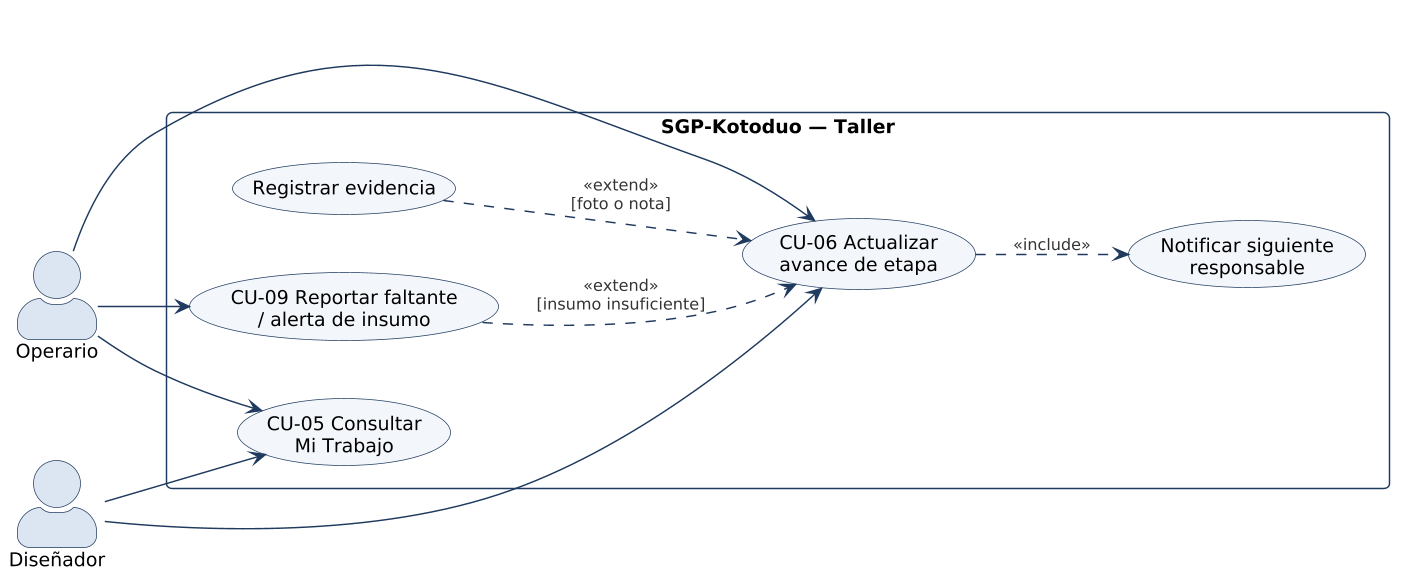
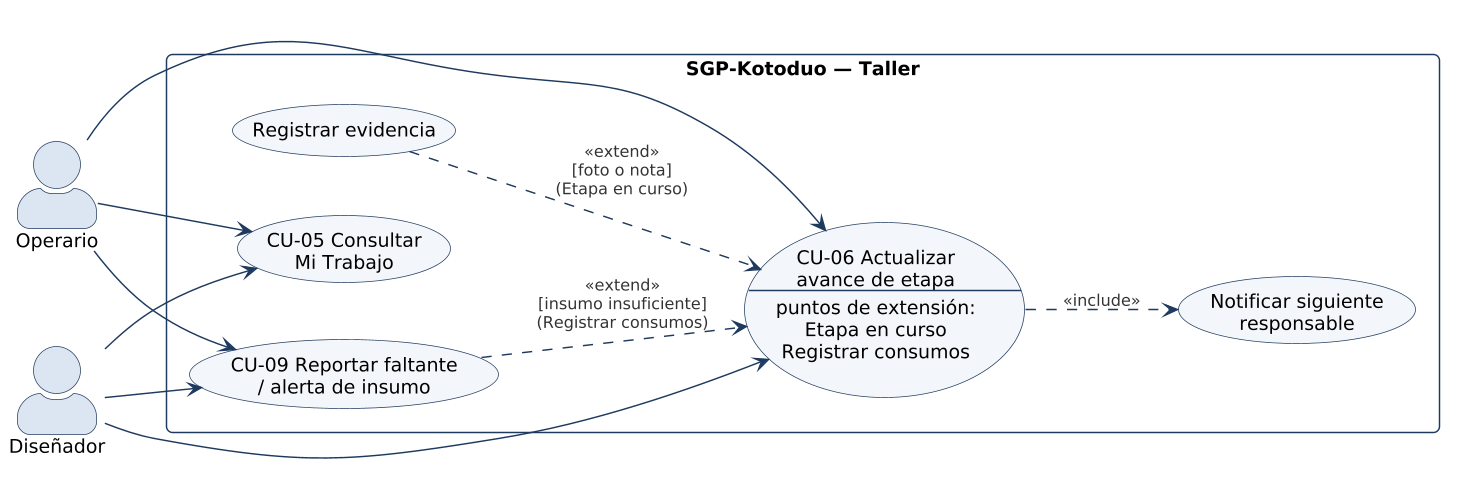
docs(informe): split use cases by RBAC actors and add supervision diagram
Add CU-12 to CU-14 and Fig. 4.24, declare CU-06 extension points, align use-case actors with the permission matrix, and let the seller view the panel and mark orders delivered in the prototype and navigation map.

diff --git a/anexos/prototipo/app.js b/anexos/prototipo/app.js
@@ -66,7 +66,7 @@
   var NAV = {
     OPERARIO: ['mi-trabajo', 'avisos', 'insumos'],
     DISENADOR: ['mi-trabajo', 'avisos', 'insumos'],
-    VENDEDOR: ['ordenes', 'nueva', 'avisos'],
+    VENDEDOR: ['ordenes', 'nueva', 'avisos', '+panel'],
     ENCARGADA_PRODUCCION: ['panel', 'ordenes', 'plantillas', 'insumos'],
     ADMINISTRADOR: ['panel', 'ordenes', 'usuarios', 'bitacora', '+plantillas', '+insumos']
   };

diff --git a/Informe2_Kotoduo_SGP.md b/Informe2_Kotoduo_SGP.md
@@ -18,7 +18,7 @@
 |---|---|---|---|
 | 2.1.1.1 | 3.1 | Fases, Sprints, actividades A00–A31, entregables, plazos en días y responsables | 5 |
 | 2.1.1.2 | 3.2 | Matriz de dependencias, prioridades, ruta crítica e impacto de retrasos | 5 |
-| 2.1.2.3 | 4.1 a 4.6 | Vistas lógica, desarrollo, procesos, física y escenarios (Figuras 4.1–4.23) | 5 |
+| 2.1.2.3 | 4.1 a 4.6 | Vistas lógica, desarrollo, procesos, física y escenarios (Figuras 4.1–4.24) | 5 |
 | 2.1.2.4 | 4.7 | Matriz de tecnologías con justificación y necesidad futura | 5 |
 | 2.1.3.5 | 5.1 a 5.3 | Perfiles, mapa de navegación y prototipo navegable (Anexo D) | 5 |
 | 2.1.3.6 | 5.4 | Guía de estilo, contraste WCAG 2.2 AA y estrategia responsive | 5 |
@@ -326,7 +326,7 @@ Se descartaron los microservicios: con dos desarrolladores, alrededor de 25 usua
 | Desarrollo | ¿Cómo se organiza el código y sus dependencias? | Programadores, jefe de proyecto | Componentes, paquetes | 4.9–4.13 | 4.3 |
 | Procesos | ¿Qué flujos, concurrencia y sincronización existen? | Integradores de sistemas | Actividades con carriles (BPMN), secuencia, tabla de procesos | 4.14–4.18 | 4.4 |
 | Física | ¿Dónde se ejecuta cada elemento y cómo se comunica? | Infraestructura y administración | Despliegue | 4.19–4.20 | 4.5 |
-| Escenarios (+1) | ¿Qué casos de uso validan y unen las cuatro vistas? | Todos, incluido el cliente | Casos de uso | 4.21–4.23 | 4.6 |
+| Escenarios (+1) | ¿Qué casos de uso validan y unen las cuatro vistas? | Todos, incluido el cliente | Casos de uso | 4.21–4.24 | 4.6 |
 
 **Coherencia entre vistas.** El escenario CU-06 "Actualizar avance de etapa" recorre las cinco vistas:
 
@@ -495,35 +495,42 @@ La vista de procesos muestra primero el flujo de negocio (diagramas de actividad
 
 ### 4.6 Vista de escenarios o casos de uso (2.1.2.3)
 
-Los once casos de uso se dividen en tres diagramas, uno por subsistema, para que cada interesado vea solo los que le conciernen.
+Los catorce casos de uso se dividen en cuatro diagramas, uno por subsistema, para que cada interesado vea solo los que le conciernen.
 
-*Simbología:* los actores (figuras) son roles externos al sistema y el rectángulo delimita la frontera de SGP-Kotoduo. Las elipses son casos de uso. Las líneas actor–caso indican participación. La flecha con triángulo indica generalización. `<<include>>` indica comportamiento obligatorio reutilizado y `<<extend>>`, comportamiento opcional bajo condición.
+*Simbología:* los actores (figuras) son roles externos al sistema y el rectángulo delimita la frontera de SGP-Kotoduo. Las elipses son casos de uso. Las líneas actor–caso indican participación. La flecha con triángulo indica generalización. `<<include>>` indica comportamiento obligatorio reutilizado y `<<extend>>`, comportamiento opcional bajo condición, que se inserta en un punto de extensión declarado en el caso base. Una etiqueta sobre una línea actor–caso restringe la participación de ese actor. Los actores de cada diagrama coinciden con la matriz de permisos (Tabla 7.1).
 
-**Figura 4.21 — Casos de uso: actores, acceso y administración** (`diagramas/4.6-vista-escenarios/fig-4.21-cu-acceso-administracion.puml`). Define la jerarquía de actores: todos los roles heredan de "Usuario autenticado" (y por tanto pueden iniciar sesión) y el Administrador hereda las capacidades de la Encargada.
+**Figura 4.21 — Casos de uso: actores, acceso y administración** (`diagramas/4.6-vista-escenarios/fig-4.21-cu-acceso-administracion.puml`). Define la jerarquía de actores: todos los roles heredan de "Usuario" (y por tanto pueden iniciar sesión) y el Administrador hereda las capacidades de la Encargada. La Encargada consulta la bitácora solo por OT; el Administrador la consulta completa.
 
 ![Figura 4.21 — Casos de uso: actores, acceso y administración](figuras/4.6-vista-escenarios/fig-4.21-cu-acceso-administracion.png)
 
-**Figura 4.22 — Casos de uso: gestión de órdenes, diseño, insumos y supervisión** (`diagramas/4.6-vista-escenarios/fig-4.22-cu-gestion-ordenes.puml`). Registrar una OT siempre genera sus etapas (`<<include>>`). El actor `<<sistema>>` "Planificador" representa el proceso programado de detección de atrasos.
+**Figura 4.22 — Casos de uso: gestión de órdenes, diseño e insumos** (`diagramas/4.6-vista-escenarios/fig-4.22-cu-gestion-ordenes.puml`). Registrar una OT siempre genera sus etapas (`<<include>>`). En la aprobación de diseño, el Diseñador sube versiones y el Vendedor registra la respuesta del cliente; nunca la misma persona (R6).
 
-![Figura 4.22 — Casos de uso: gestión de órdenes, diseño, insumos y supervisión](figuras/4.6-vista-escenarios/fig-4.22-cu-gestion-ordenes.png)
+![Figura 4.22 — Casos de uso: gestión de órdenes, diseño e insumos](figuras/4.6-vista-escenarios/fig-4.22-cu-gestion-ordenes.png)
 
-**Figura 4.23 — Casos de uso: ejecución en el taller** (`diagramas/4.6-vista-escenarios/fig-4.23-cu-ejecucion-taller.puml`). Contiene el escenario crítico CU-06. Adjuntar evidencia o reportar un faltante extienden el avance de una etapa (`<<extend>>`), y todo avance notifica al siguiente responsable (`<<include>>`).
+**Figura 4.23 — Casos de uso: ejecución en el taller** (`diagramas/4.6-vista-escenarios/fig-4.23-cu-ejecucion-taller.puml`). Contiene el escenario crítico CU-06, que declara dos puntos de extensión: *Etapa en curso* y *Registrar consumos*. Registrar evidencia extiende el primero y reportar un faltante (CU-09) extiende el segundo (`<<extend>>`). Todo avance notifica al siguiente responsable (`<<include>>`).
 
 ![Figura 4.23 — Casos de uso: ejecución en el taller](figuras/4.6-vista-escenarios/fig-4.23-cu-ejecucion-taller.png)
 
-| CU | Nombre | Actor principal | RF | HU |
-|---|---|---|---|---|
-| CU-01 | Iniciar sesión (con MFA si corresponde) | Todos | RF-01 | HU-11 |
-| CU-02 | Gestionar usuarios y roles | Administrador | RF-01 | HU-11 |
-| CU-03 | Gestionar plantillas de proceso | Encargada de Producción | RF-02 | HU-07 |
-| CU-04 | Registrar orden de trabajo | Vendedor | RF-03, RF-04 | HU-05, HU-08 |
-| CU-05 | Consultar Mi Trabajo | Operario, Diseñador | RF-05 | HU-01 |
-| CU-06 | Actualizar avance de etapa | Operario, Diseñador | RF-06, RF-07 | HU-02, HU-04 |
-| CU-07 | Gestionar aprobación de diseño | Diseñador, Vendedor | RF-08 | HU-06 |
-| CU-08 | Gestionar insumos y movimientos | Encargada de Producción | RF-09 | HU-09 |
-| CU-09 | Reportar faltante / alerta de insumo | Operario | RF-10 | HU-03, HU-09 |
-| CU-10 | Supervisar producción | Encargada, Administrador | RF-11 | HU-10 |
-| CU-11 | Consultar bitácora de auditoría | Administrador | RF-12 | HU-12 |
+**Figura 4.24 — Casos de uso: supervisión y control de la producción** (`diagramas/4.6-vista-escenarios/fig-4.24-cu-supervision-control.puml`). Reúne las acciones de la Encargada que mueven las máquinas de estados de la etapa y de la OT (Fig. 4.7 y 4.8): gestionar etapas (CU-12) y controlar el estado de la OT (CU-13). El Vendedor consulta el panel y marca la OT como entregada, sin otras acciones. El actor `<<sistema>>` "Verificador de atrasos" es el proceso programado de la vista de procesos, que cada 15 minutos detecta las OT en riesgo (CU-14) y avisa a la Encargada.
+
+![Figura 4.24 — Casos de uso: supervisión y control de la producción](figuras/4.6-vista-escenarios/fig-4.24-cu-supervision-control.png)
+
+| CU | Nombre | Actores (el Administrador hereda los de la Encargada) | RF | HU | Figura |
+|---|---|---|---|---|---|
+| CU-01 | Iniciar sesión (con MFA si corresponde) | Todos | RF-01 | HU-11 | 4.21 |
+| CU-02 | Gestionar usuarios y roles | Administrador | RF-01 | HU-11 | 4.21 |
+| CU-03 | Gestionar plantillas de proceso | Encargada de Producción | RF-02 | HU-07 | 4.22 |
+| CU-04 | Registrar orden de trabajo | Vendedor, Encargada de Producción | RF-03, RF-04 | HU-05 | 4.22 |
+| CU-05 | Consultar Mi Trabajo | Operario, Diseñador | RF-05 | HU-01 | 4.23 |
+| CU-06 | Actualizar avance de etapa | Operario, Diseñador | RF-06, RF-07 | HU-02, HU-04 | 4.23 |
+| CU-07 | Gestionar aprobación de diseño | Diseñador (sube), Vendedor (resuelve) | RF-08 | HU-06 | 4.22 |
+| CU-08 | Gestionar insumos y movimientos | Encargada de Producción | RF-09 | HU-09 | 4.22 |
+| CU-09 | Reportar faltante / alerta de insumo | Operario, Diseñador | RF-10 | HU-03, HU-09 | 4.23 |
+| CU-10 | Supervisar producción | Encargada de Producción; Vendedor (solo consulta) | RF-11 | HU-10 | 4.24 |
+| CU-11 | Consultar bitácora de auditoría | Administrador; Encargada (solo por OT) | RF-12 | HU-12 | 4.21 |
+| CU-12 | Gestionar etapas de la OT (asignar, reasignar, omitir, desbloquear) | Encargada de Producción | RF-04, RF-06 | HU-08 | 4.24 |
+| CU-13 | Controlar estado de la OT (detener, reanudar, anular, marcar entregada) | Encargada de Producción; Vendedor (solo marcar entregada) | RF-06, RF-11 | HU-10 | 4.24 |
+| CU-14 | Detectar OT en riesgo | Verificador de atrasos (`<<sistema>>`) | RF-11 | HU-10 | 4.24 |
 
 **Especificación del caso de uso crítico CU-06 — Actualizar avance de etapa**
 
@@ -532,7 +539,8 @@ Los once casos de uso se dividen en tres diagramas, uno por subsistema, para que
 | Actor | Operario (o Diseñador en etapas de diseño) |
 | Precondiciones | Sesión activa; la etapa está asignada al actor y en estado DISPONIBLE o EN_CURSO; la OT no está DETENIDA |
 | Flujo básico | 1. El actor abre *Mi Trabajo* y selecciona la OT. 2. El sistema muestra la etapa, las instrucciones, los insumos requeridos y la siguiente área. 3. El actor pulsa **Iniciar**; el sistema cambia la etapa a EN_CURSO. 4. Al finalizar, el actor pulsa **Terminar** e ingresa los consumos reales. 5. El sistema registra la etapa como TERMINADA, descuenta el stock, habilita la siguiente etapa y notifica a su responsable. 6. El sistema muestra "Sigue: <etapa> en <área>". |
-| Flujos alternativos | 3a. Problema en la ejecución → **Reportar problema** con motivo → BLOQUEADA; se notifica a la Encargada y la OT queda DETENIDA hasta que la Encargada desbloquee la etapa y reanude la OT. 4a. Insumo insuficiente → extiende CU-09. 4b. Adjuntar foto o nota → extensión "Registrar evidencia". 5a. Última etapa → la OT pasa a TERMINADA. |
+| Puntos de extensión | *Etapa en curso* (entre los pasos 3 y 4); *Registrar consumos* (paso 4) |
+| Flujos alternativos | 3a. Problema en la ejecución → **Reportar problema** con motivo → BLOQUEADA; se notifica a la Encargada y la OT queda DETENIDA hasta que la Encargada desbloquee la etapa (CU-12) y reanude la OT (CU-13). 4a. Insumo insuficiente → CU-09 extiende este caso en el punto *Registrar consumos*. 4b. Adjuntar foto o nota → "Registrar evidencia" extiende este caso en el punto *Etapa en curso*. 5a. Última etapa → la OT pasa a TERMINADA. |
 | Excepciones | E1. Otro usuario actualizó la etapa → 409 "La etapa cambió; recarga". E2. La etapa no pertenece al actor → 404, sin revelar que existe (AM-05). E3. Sin conexión → la PWA informa y conserva el formulario. |
 | Postcondiciones | El estado de la etapa y de la OT queda consistente; el evento queda en la bitácora; el siguiente responsable está notificado |
 | Reglas | Solo transiciones de la Fig. 4.7; el consumo no puede dejar stock negativo |
@@ -544,7 +552,7 @@ Los once casos de uso se dividen en tres diagramas, uno por subsistema, para que
 | Actor | Vendedor (o Encargada de Producción) |
 | Precondiciones | Sesión activa con el permiso `ordenes.crear`; existe un tipo de trabajo activo con plantilla |
 | Flujo básico | 1. Selecciona el tipo de trabajo. 2. Ingresa título, referencia del cliente (solo institución), cantidad, especificaciones (tallas, medidas, colores), prioridad y fecha de compromiso. 3. El sistema valida, genera el código `OT-AAAA-NNNN`, crea las etapas desde la plantilla y calcula los requerimientos de insumo y la fecha estimada. 4. Si un insumo proyectado queda bajo el mínimo, crea una alerta. 5. Muestra el resumen con las etapas generadas. |
-| Alternativos | 3a. Fecha estimada > compromiso → advertencia "OT en riesgo" antes de confirmar. 3b. La Encargada ajusta etapas y responsables (HU-08). |
+| Alternativos | 3a. Fecha estimada > compromiso → advertencia "OT en riesgo" antes de confirmar. 3b. La Encargada ajusta etapas y responsables después de registrar la OT (CU-12, HU-08). |
 | Postcondiciones | OT en estado REGISTRADA (o EN_DISENO si requiere diseño); etapas en PENDIENTE y la primera en DISPONIBLE |
 
 ### 4.7 Tecnologías y herramientas de infraestructura (2.1.2.4)
@@ -665,7 +673,7 @@ El mapa de navegación es un árbol jerárquico de rutas. Cada nodo es una ruta 
 | P-03 | Detalle de orden y etapa | `detalle-orden.html` | Operario y Diseñador (avanzan su etapa), Vendedor (solo lectura), Encargada y Administrador (asignan y omiten) | HU-02, HU-03, HU-04 / CU-06, CU-09 |
 | P-04 | Órdenes y nueva orden de trabajo | `ordenes.html`, `ordenes-nueva.html` | Vendedor, Encargada, Administrador | HU-05 / CU-04 |
 | P-05 | Aprobación de diseño | `aprobacion-diseno.html` | Vendedor (resuelve), Diseñador (sube versiones) | HU-06 / CU-07 |
-| P-06 | Panel de supervisión | `panel.html` | Encargada, Administrador | HU-10 / CU-10 |
+| P-06 | Panel de supervisión | `panel.html` | Encargada, Administrador; Vendedor (solo lectura) | HU-10 / CU-10, CU-14 |
 | P-07 | Plantillas de proceso | `plantillas.html`, `plantilla.html` | Encargada, Administrador | HU-07 / CU-03 |
 | P-08 | Insumos y alertas | `insumos.html` | Encargada (gestiona); demás roles (consulta) | HU-09 / CU-08, CU-09 |
 | P-09 | Usuarios y roles | `usuarios.html` | Administrador | HU-11 / CU-02 |
@@ -1228,14 +1236,14 @@ Las modificaciones de la Ley N.º 21.719 a la Ley N.º 19.628 entran en vigencia
 | HU-11 / RF-01 | CU-01, CU-02 | CP-07, CP-08, CP-09, CP-10, CP-28, CP-29, CP-30 | Unitaria, integración, seguridad | Política de claves, login, MFA, bloqueo, sesión, permisos |
 | HU-07 / RF-02 | CU-03 | CP-03, CP-28 | Unitaria, seguridad | Plantilla ordenada; solo Encargada/Admin la modifican |
 | HU-05 / RF-03, RF-04 | CU-04 | CP-04, CP-06, CP-11 | Unitaria, integración | Validación, generación de etapas, fecha estimada, evento de bitácora |
-| HU-08 / RF-04 | CU-04 (alternativo 3b) | CP-11, CP-27 | Integración, seguridad | Asignación y aislamiento por responsable |
+| HU-08 / RF-04 | CU-12 (y CU-04, alternativo 3b) | CP-01, CP-11, CP-12, CP-27 | Unitaria, integración, seguridad | Asignación, omisión y desbloqueo de etapas; aislamiento por responsable |
 | HU-01 / RF-05 | CU-05 | CP-20, CP-33, CP-34 | Rendimiento, usabilidad, E2E | Mi Trabajo rápido, comprensible y adaptable |
 | HU-02 / RF-06 | CU-06 | CP-01, CP-02, CP-12, CP-13, CP-19, CP-21, CP-27 | Unitaria, integración, rendimiento, seguridad | Máquina de estados, avance, cierre de OT, concurrencia, IDOR |
 | HU-04 / RF-07 | CU-06 (extensión) | CP-17, CP-25, CP-31 | Integración, seguridad | Evidencia almacenada, XSS y archivos maliciosos |
 | HU-06 / RF-08 | CU-07 | CP-16 | Integración | Aprobación, rechazo y segregación de funciones |
 | HU-09 / RF-09, RF-10 | CU-08, CU-09 | CP-05, CP-14, CP-15 | Unitaria, integración | Umbral, alerta automática única, alerta manual |
 | HU-03 / RF-10 | CU-09 | CP-15, CP-33 | Integración, usabilidad | Reporte desde la etapa |
-| HU-10 / RF-11 | CU-10 | CP-18, CP-23 | Integración, rendimiento | Atrasadas correctas; panel con volumen |
+| HU-10 / RF-11 | CU-10, CU-13, CU-14 | CP-01, CP-02, CP-18, CP-23 | Unitaria, integración, rendimiento | Atrasadas y en riesgo correctas; detener, reanudar y anular según la Fig. 4.8; panel con volumen |
 | HU-12 / RF-12 | CU-11 | CP-11, CP-13 | Integración | 100 % de cambios en la bitácora |
 | RNF-01 | — | CP-33, CP-35, CP-36 | Usabilidad, accesibilidad | ≤ 3 toques, SUS ≥ 70, WCAG AA |
 | RNF-02 | — | CP-22, CP-34 | E2E | Instalable y responsive |
@@ -1300,7 +1308,7 @@ Las pruebas de usabilidad se hacen con usuarios reales de Kotoduo (mínimo 5, un
 | CP-15 | HU-03 / CU-09 | Reporte manual de faltante | Operario con etapa EN_CURSO | `POST /api/v1/alertas` `{insumoId, etapaId, comentario}` | 201; alerta MANUAL con `reportada_por`; notificación ALERTA_INSUMO a los usuarios Encargada | [Completar] | Pendiente |
 | CP-16 | HU-06 / CU-07 | Aprobación de diseño y segregación | Diseño v1 PENDIENTE subido por el Diseñador | (a) El Vendedor rechaza sin comentario; (b) rechaza con comentario; (c) el Diseñador intenta aprobar su v2; (d) el Vendedor aprueba la v2 | (a) 400; (b) 200, RECHAZADO; (c) 403; (d) 200, APROBADO y la primera etapa de producción pasa a DISPONIBLE | [Completar] | Pendiente |
 | CP-17 | HU-04 / CU-06 | Evidencia con URL prefirmada | Etapa propia; emulador S3 activo | Solicitar URL (image/jpeg, 300 KB) → PUT al emulador → `POST /evidencias` con metadatos | URL con expiración de 300 s; documento en `evidencias_etapa` con `object_key` y `sha256` válidos | [Completar] | Pendiente |
-| CP-18 | HU-10 / CU-10 | Panel identifica atrasadas | 3 OT: compromiso ayer (activa), mañana, ayer (TERMINADA) | `GET /api/v1/panel/ordenes?filtro=atrasadas` | Devuelve solo la primera; `porcentaje_avance` correcto | [Completar] | Pendiente |
+| CP-18 | HU-10 / CU-10, CU-14 | Panel identifica atrasadas y en riesgo | 4 OT: compromiso ayer (activa), mañana, ayer (TERMINADA) y una activa con fecha estimada posterior al compromiso | `GET /api/v1/panel/ordenes?filtro=atrasadas`; luego ejecutar dos veces el Verificador de atrasos | Atrasadas: solo la primera, con `porcentaje_avance` correcto; la cuarta queda `en_riesgo` y la Encargada recibe una sola notificación (operación idempotente) | [Completar] | Pendiente |
 | CP-19 | HU-02 / CU-06 | Concurrencia sobre la misma etapa | Etapa EN_CURSO, version = 3 | Dos `POST /terminar` simultáneos (`Promise.all`) con version 3 | Una respuesta 200 y otra 409; la siguiente etapa se habilita una sola vez | [Completar] | Pendiente |
 
 **Tabla 8.3 — Pruebas de rendimiento (k6 / Lighthouse)**

diff --git a/README.md b/README.md
@@ -21,7 +21,7 @@ Repositorio del **Informe N.º 2** del Proyecto Integrado (Unidad 2, INACAP). Co
 │   ├── 4.3-vista-desarrollo/    #   Fig. 4.9–4.13 (4+1: desarrollo)
 │   ├── 4.4-vista-procesos/      #   Fig. 4.14–4.18 (4+1: procesos)
 │   ├── 4.5-vista-fisica/        #   Fig. 4.19–4.20 (4+1: física)
-│   ├── 4.6-vista-escenarios/    #   Fig. 4.21–4.23 (4+1: escenarios)
+│   ├── 4.6-vista-escenarios/    #   Fig. 4.21–4.24 (4+1: escenarios)
 │   ├── 5.2-navegacion/          #   Fig. 5.1–5.3
 │   └── 6.1-modelo-datos/        #   Fig. 6.1–6.5
 ├── figuras/                     # Imágenes PNG renderizadas (mismas carpetas y nombres)
